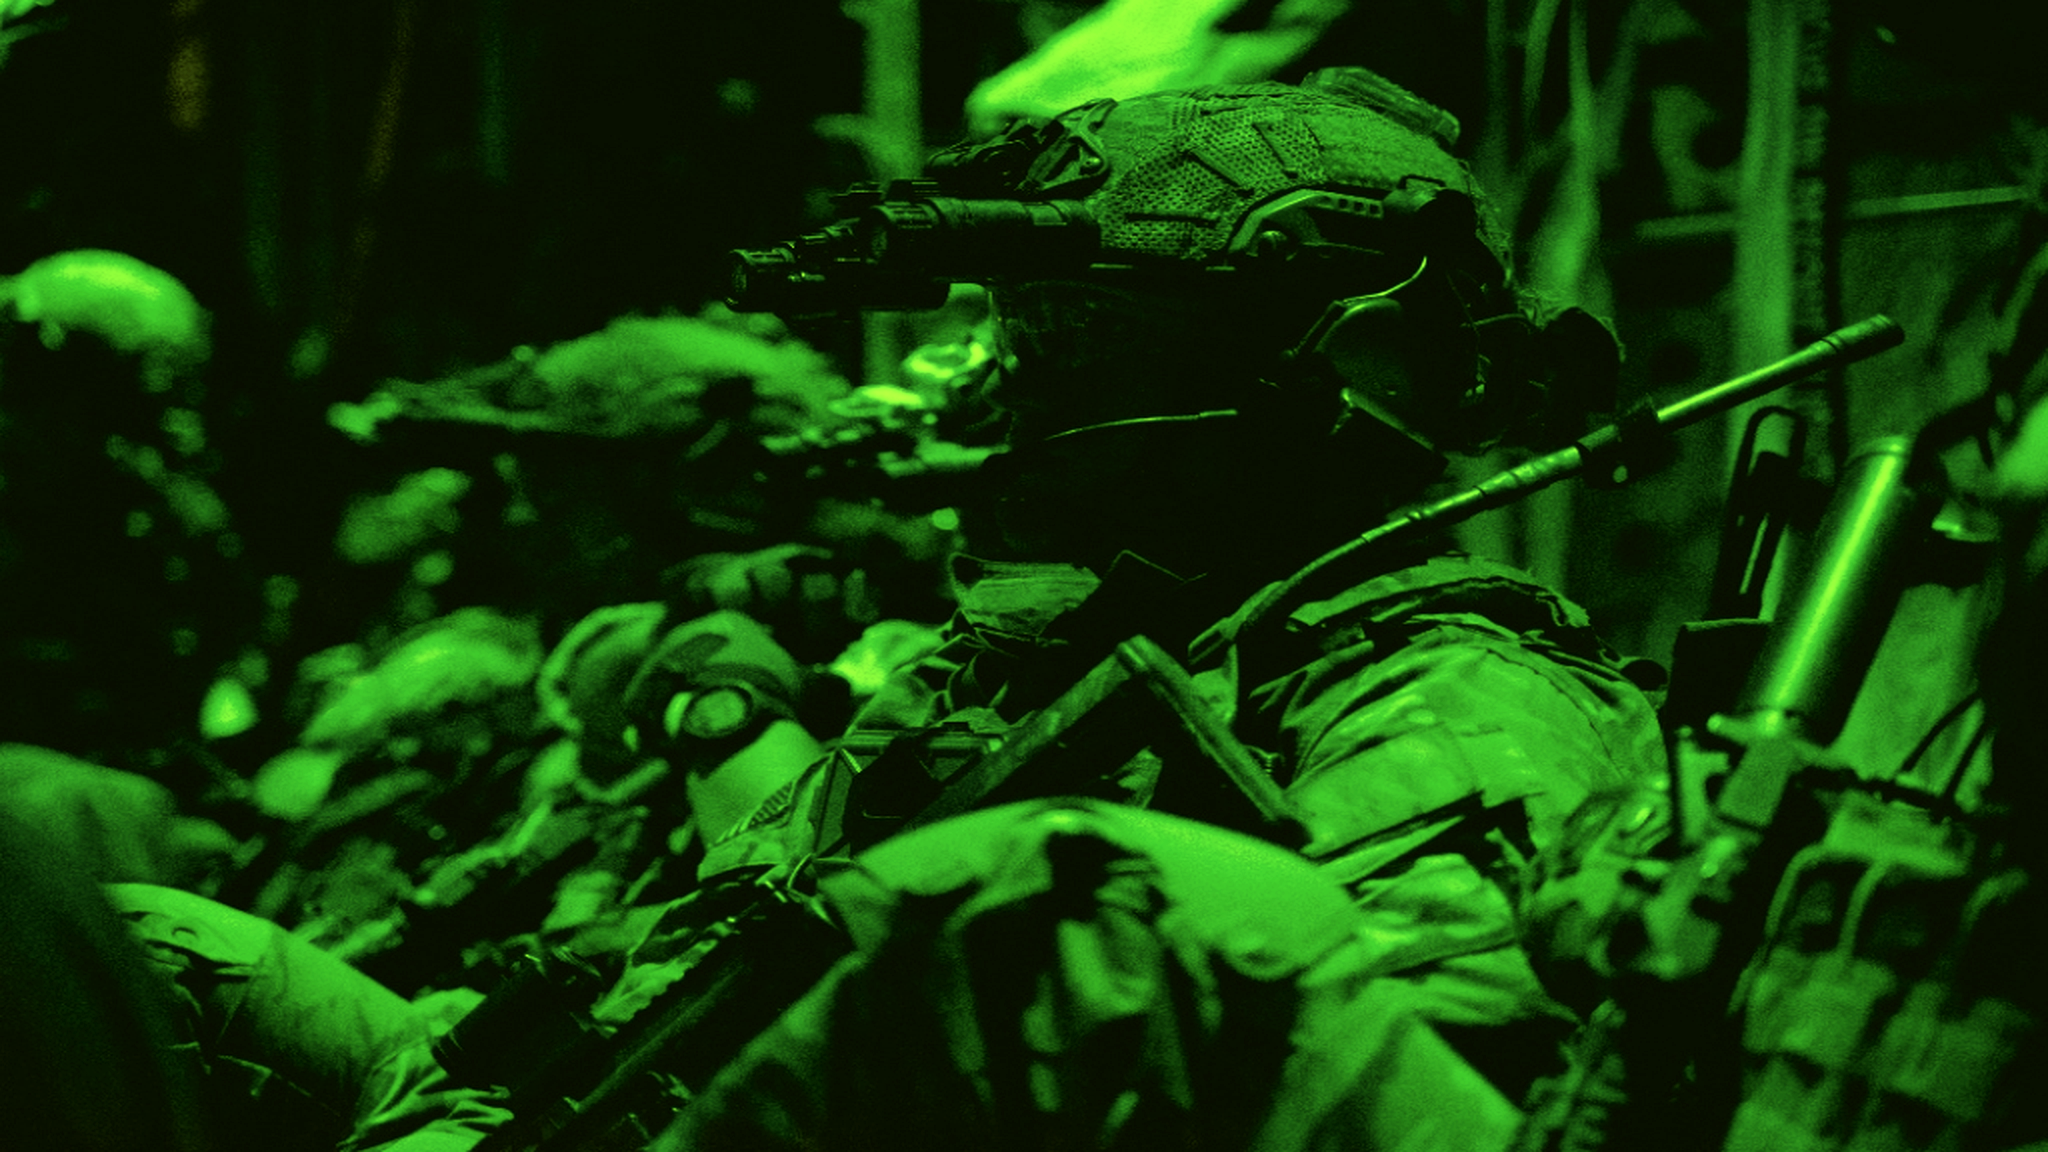
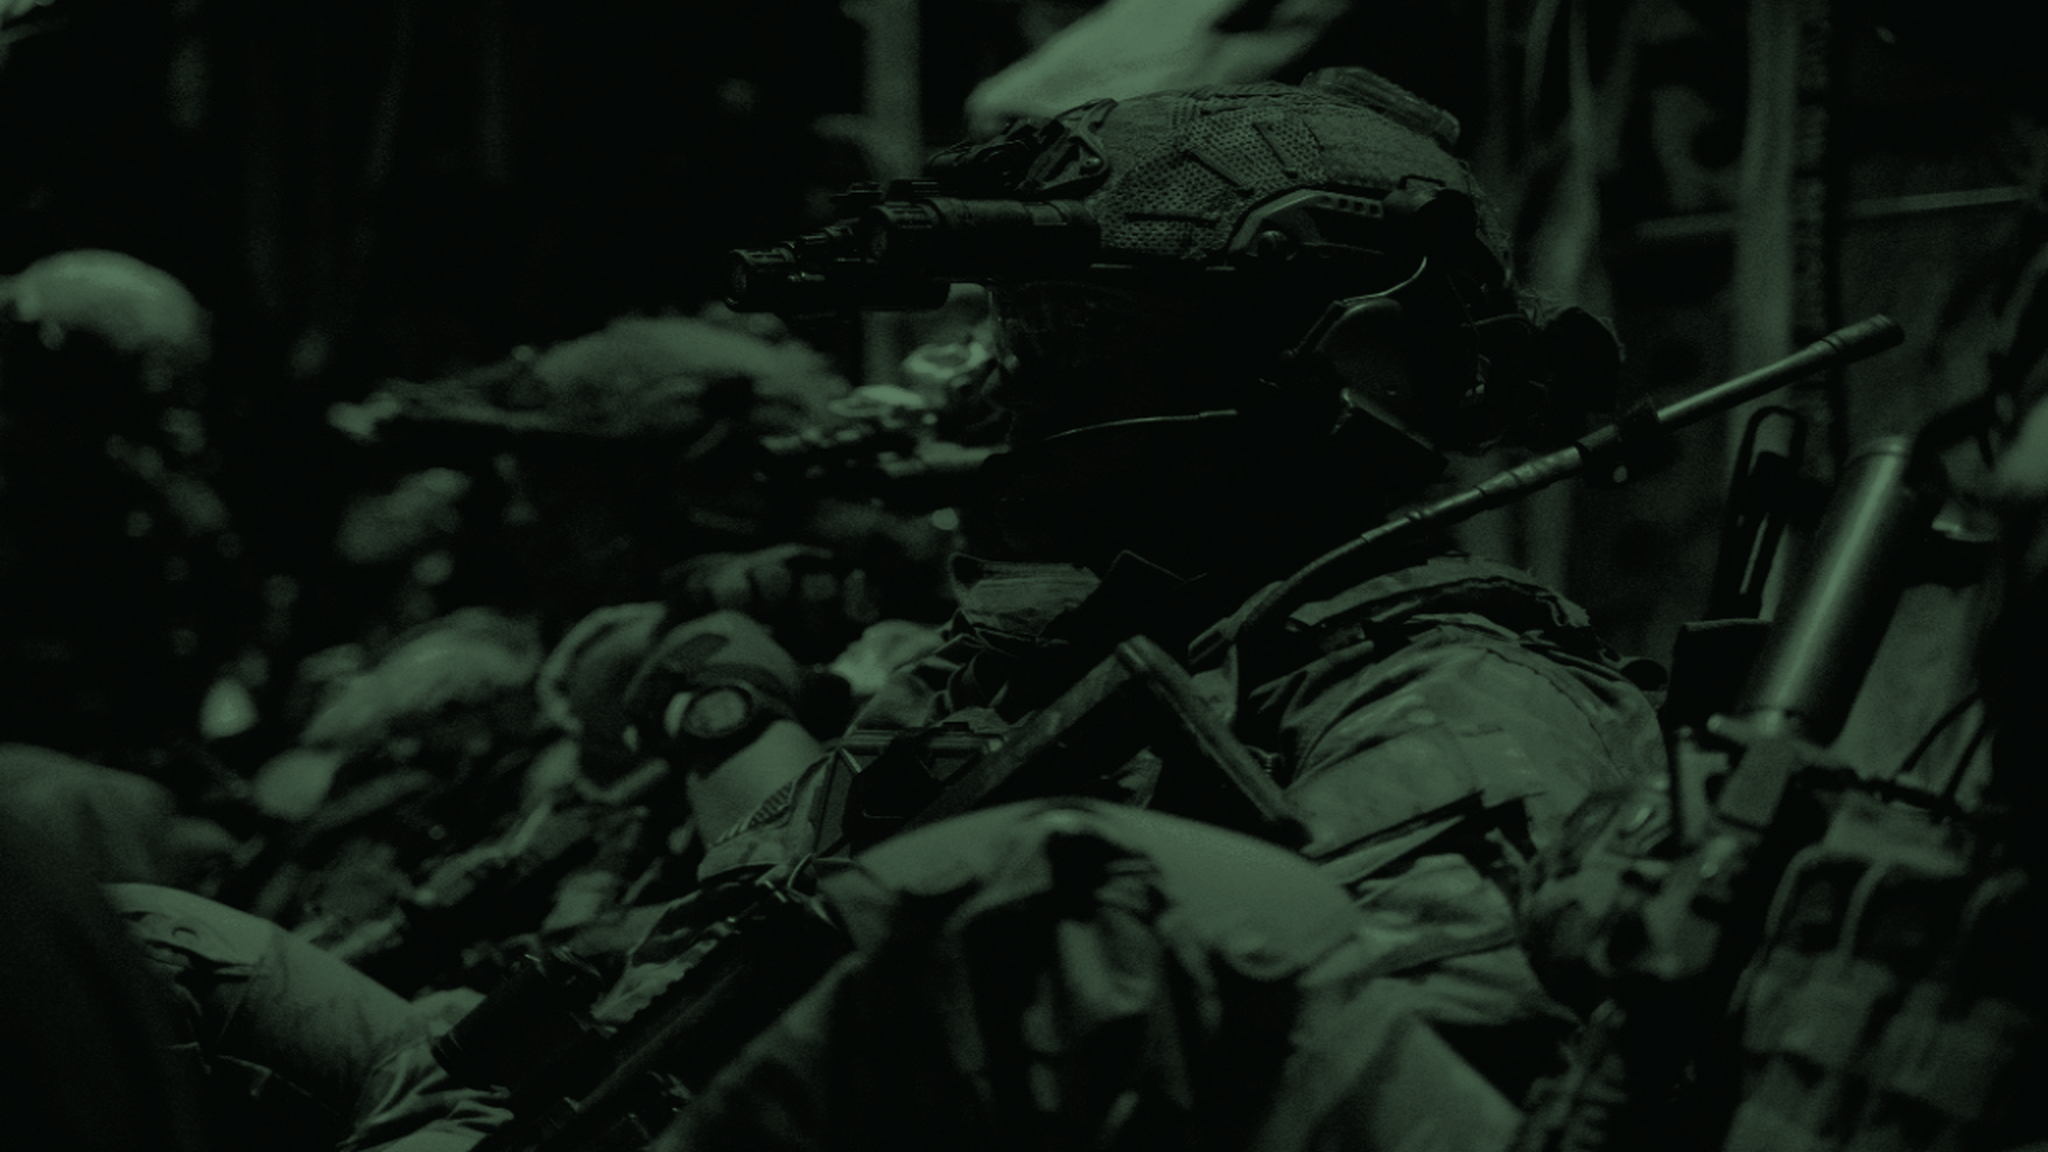
feat(hero): extract and deploy exact tactical background from vanguarrdd with cache busting v2

diff --git a/src/components/landing/VanguardLandingPage.tsx b/src/components/landing/VanguardLandingPage.tsx
@@ -496,7 +496,7 @@ export const VanguardLandingPage: React.FC<VanguardLandingPageProps> = ({
         {/* Full Clarity Hero Background: Tactical Operators (No blackish overlay, 100% vivid fill) */}
         <div 
           className="absolute inset-0 z-0 pointer-events-none bg-cover bg-center bg-no-repeat"
-          style={{ backgroundImage: "url('/assets/vanguard_hero_tactical.png')" }}
+          style={{ backgroundImage: "url('/assets/vanguard_hero_tactical_v2.png')" }}
         />
 
         {/* HORIZONTAL TACTICAL HIGHLIGHT BAR BEHIND VANGUARD */}

diff --git a/src/components/landing/HeroLandingPage.tsx b/src/components/landing/HeroLandingPage.tsx
@@ -14,7 +14,7 @@ export default function HeroLandingPage({ onEnterApp }: HeroLandingPageProps) {
       {/* BACKGROUND: TACTICAL OPERATORS (Full clarity, no blackish overlay) */}
       <div 
         className="absolute inset-0 z-0 pointer-events-none bg-cover bg-center bg-no-repeat"
-        style={{ backgroundImage: "url('/assets/vanguard_hero_tactical.png')" }}
+        style={{ backgroundImage: "url('/assets/vanguard_hero_tactical_v2.png')" }}
       />
 
       {/* MINUTE TACTICAL & AEROSPACE BACKGROUND DOODLES */}
